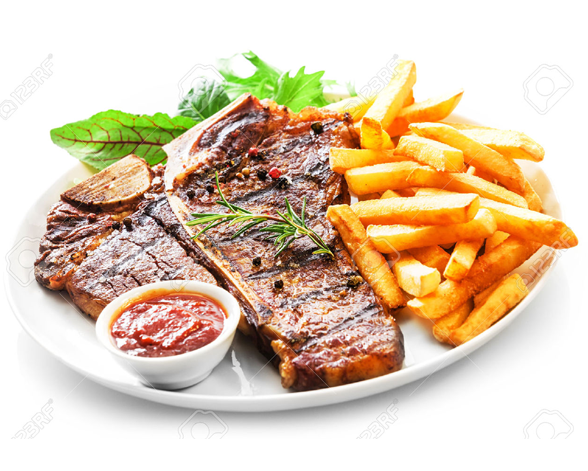
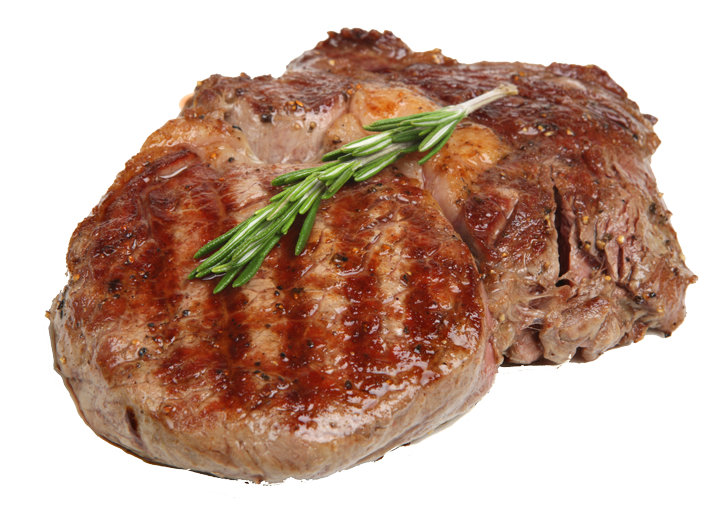
add stripe payment method

diff --git a/lib/ui/cart/checkout_screen.dart b/lib/ui/cart/checkout_screen.dart
@@ -146,9 +146,10 @@ class _CheckoutScreenState extends State<CheckoutScreen> {
 
     return Scaffold(
       backgroundColor: AppTheme.backgroundColor,
-      appBar: AppBar(title: const Text('Checkout'), centerTitle: true),
+      appBar: AppBar(title: const Text('Checkout'), centerTitle: true,
+        leading: IconButton(onPressed: () => Navigator.pop(context), icon: Icon(Icons.chevron_left)),),
       body: SafeArea(
-        child: SingleChildScrollView(
+        child: Padding(
           padding: const EdgeInsets.all(24),
           child: Column(
             crossAxisAlignment: CrossAxisAlignment.start,
@@ -231,63 +232,7 @@ class _CheckoutScreenState extends State<CheckoutScreen> {
               const SizedBox(height: 32),
 
               // Payment Details Section
-              const Text(
-                'Payment Details',
-                style: TextStyle(fontSize: 20, fontWeight: FontWeight.bold),
-              ),
-              const SizedBox(height: 16),
-
-              _buildInput(
-                label: 'Cardholder Name',
-                icon: LucideIcons.user,
-                hint: 'John Doe',
-              ),
-              const SizedBox(height: 16),
-              _buildInput(
-                label: 'Card Number',
-                icon: LucideIcons.creditCard,
-                hint: '0000 0000 0000 0000',
-                keyboardType: TextInputType.number,
-                formatters: [
-                  FilteringTextInputFormatter.digitsOnly,
-                  LengthLimitingTextInputFormatter(16),
-                  _CardNumberFormatter(),
-                ],
-              ),
-              const SizedBox(height: 16),
-
-              Row(
-                children: [
-                  Expanded(
-                    child: _buildInput(
-                      label: 'Expiry',
-                      icon: LucideIcons.calendar,
-                      hint: 'MM/YY',
-                      keyboardType: TextInputType.number,
-                      formatters: [
-                        FilteringTextInputFormatter.digitsOnly,
-                        LengthLimitingTextInputFormatter(4),
-                        _CardExpiryFormatter(),
-                      ],
-                    ),
-                  ),
-                  const SizedBox(width: 16),
-                  Expanded(
-                    child: _buildInput(
-                      label: 'CVC',
-                      icon: LucideIcons.lock,
-                      hint: '123',
-                      isPassword: true,
-                      keyboardType: TextInputType.number,
-                      formatters: [
-                        FilteringTextInputFormatter.digitsOnly,
-                        LengthLimitingTextInputFormatter(3),
-                      ],
-                    ),
-                  ),
-                ],
-              ),
-
+              const Spacer(),
               const SizedBox(height: 40),
 
               SizedBox(
@@ -319,6 +264,7 @@ class _CheckoutScreenState extends State<CheckoutScreen> {
                         ),
                 ),
               ),
+              const SizedBox(height: 40),
             ],
           ),
         ),
@@ -488,7 +434,7 @@ class OrderSuccessDialog extends StatelessWidget {
                   Navigator.of(context).pop();
                 },
                 style: ElevatedButton.styleFrom(
-                  backgroundColor: AppTheme.primaryColor,
+                  backgroundColor: Colors.green,
                   shape: RoundedRectangleBorder(
                     borderRadius: BorderRadius.circular(16),
                   ),